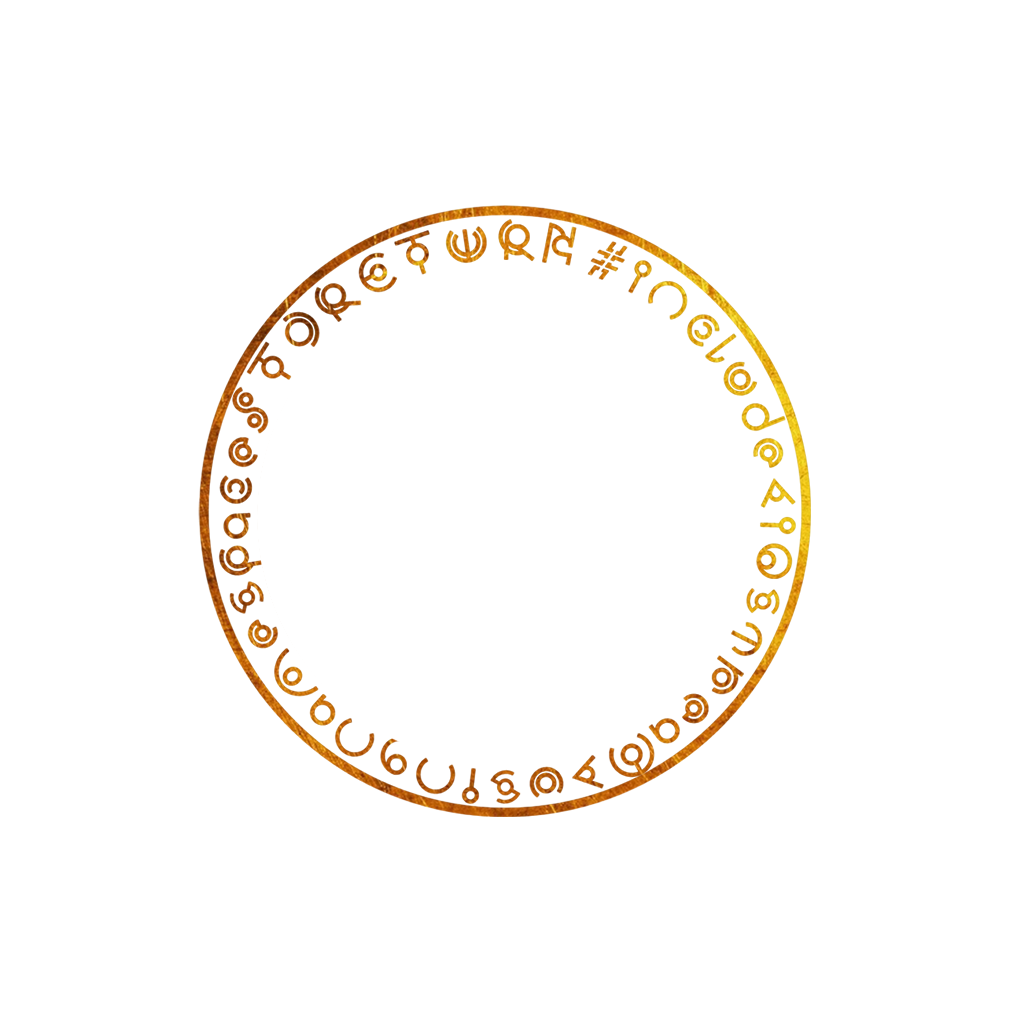
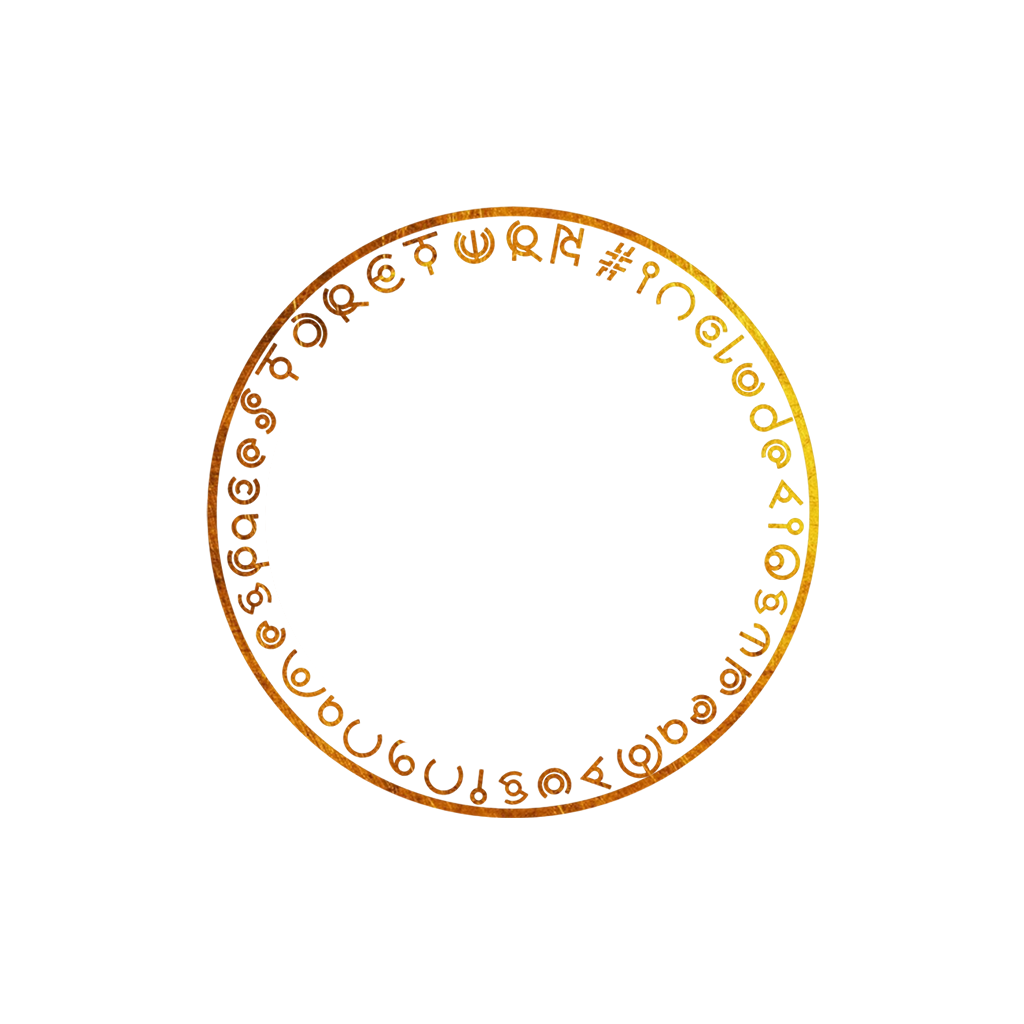
right circle wrong place

Changed region(s): [[0.1875, 0.1875, 0.8125, 0.8125]]

diff --git a/css/map.css b/css/map.css
@@ -19,7 +19,7 @@
 
 #a-0{
     left:100vw;
-    top:45vw;
+    top:65vw;
 }
 
 #a-1{
